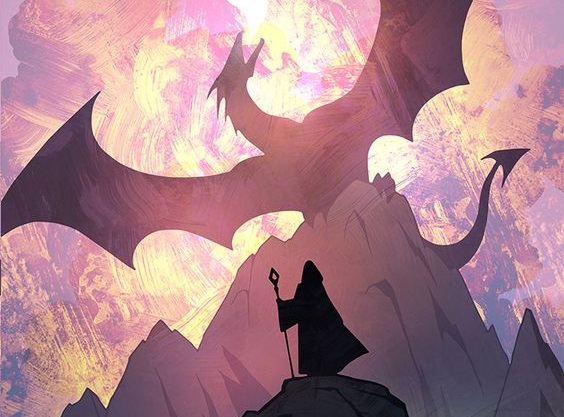
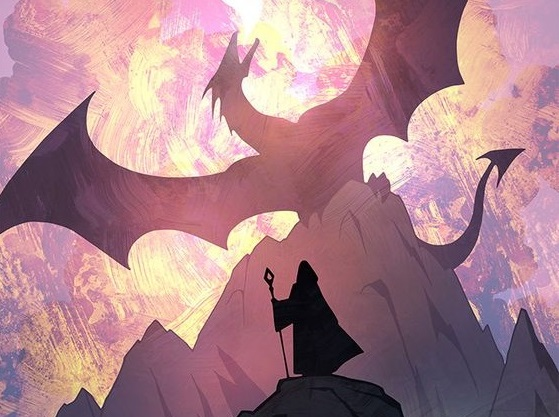
Colocando a tela de login mais centralizada.

diff --git a/style.css b/style.css
@@ -1,8 +1,19 @@
-.container {
+body {
     background-image: url(imagens/06a3599eed449a94484a6747bc03d9e5.jpg);
     background-repeat: no-repeat;
     background-size: cover;
     display: flex;
-    width: 100%;
-    height: 100vh;
+    width: 90%;
+    height: 90vh;
 }
+
+.tela-login {
+    width: 60%;
+    height: 40vh;
+    margin:  auto;
+    background: transparent;
+    backdrop-filter: blur(10px);
+    border: 2px solid rgba(255, 255, 255, .2);
+    border-radius: 10px;
+}
+    

diff --git a/index.html b/index.html
@@ -7,8 +7,8 @@
     <link rel="stylesheet" href="style.css">
 </head>
 <body>
-    <div class="container">
-
+    <div class="tela-login"></div>
+      
     </div>
     
 </body>
